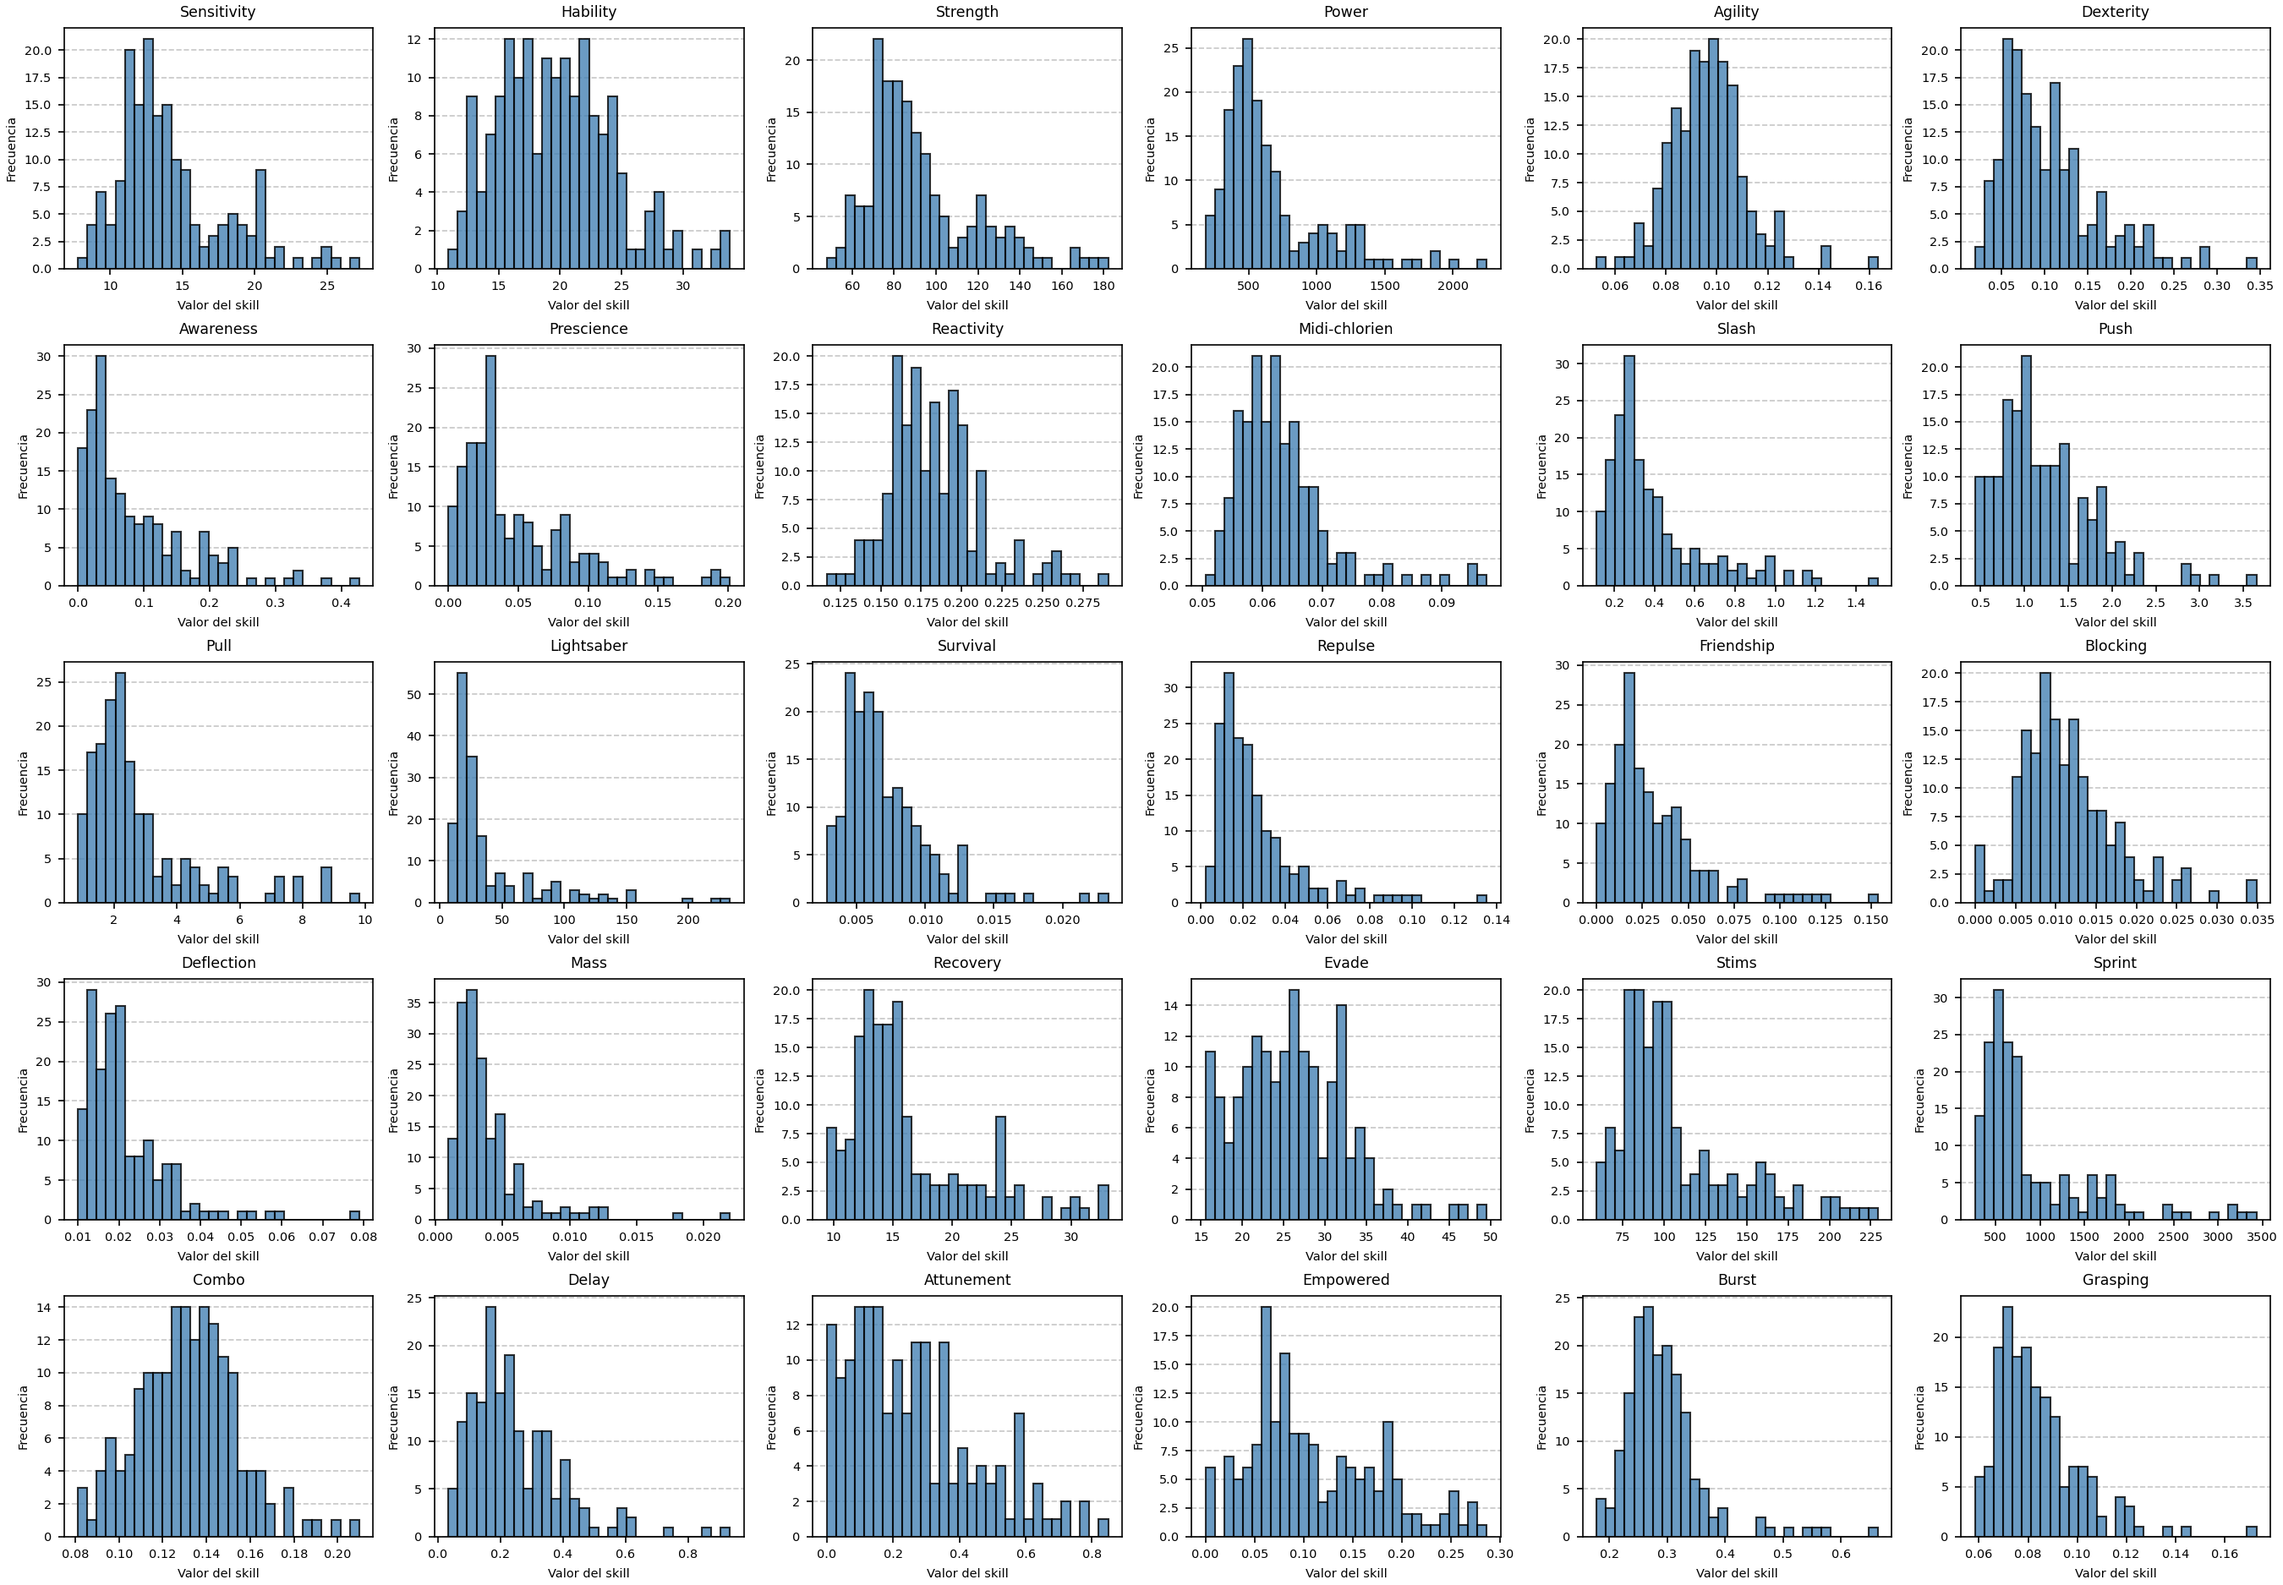
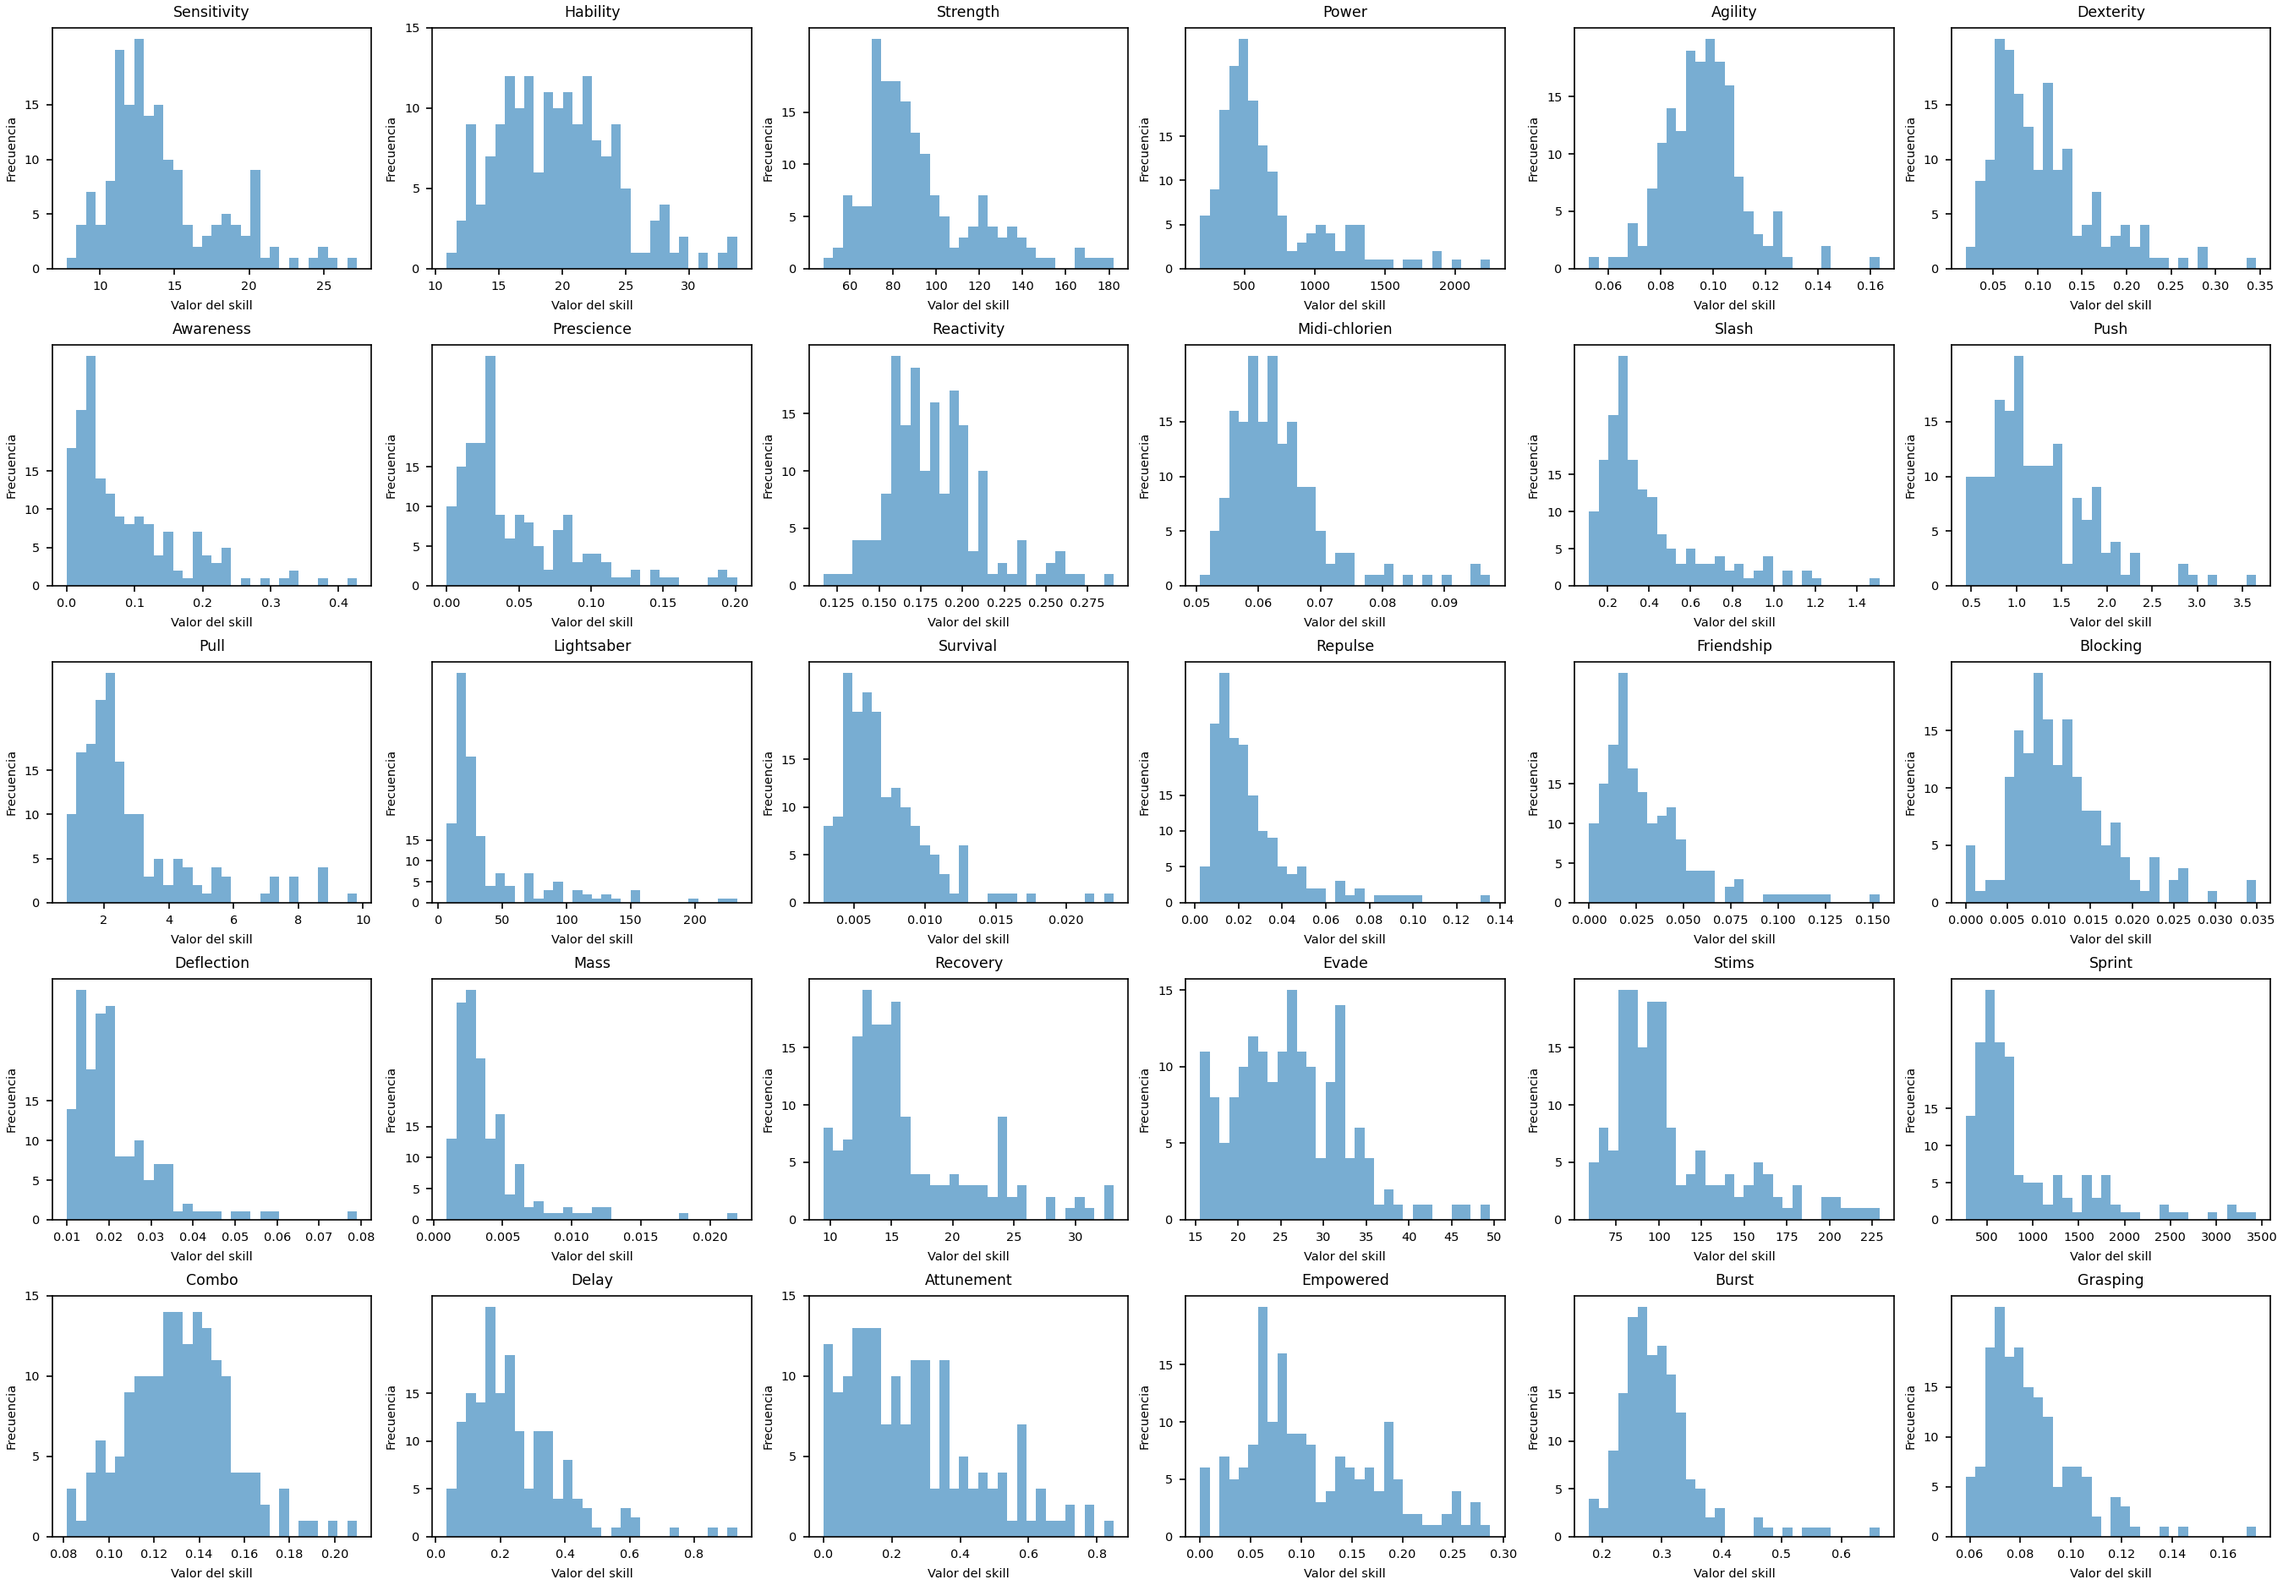
Dtascientist1ex00

diff --git a/Data_scientist_1/ex00/histogram.py b/Data_scientist_1/ex00/histogram.py
@@ -7,36 +7,49 @@ import sys
 import os
 
 # Ejercicio 00: Histogramas de skills
+def detect_delimiter(path):
+    """Detecta automáticamente ',' o ';' basándose en la primera línea útil."""
+    with open(path, 'r') as f:
+        for line in f:
+            if line.strip():
+                return ';' if line.count(';') > line.count(',') else ','
+    return ','
+
 FEATURES = [
-    "Sensitivity", "Hability", "Strength", "Power", "Agility", "Dexterity",
-    "Awareness", "Prescience", "Reactivity", "Midi-chlorien", "Slash", "Push",
-    "Pull", "Lightsaber", "Survival", "Repulse", "Friendship", "Blocking",
-    "Deflection", "Mass", "Recovery", "Evade", "Stims", "Sprint", "Combo",
-    "Delay", "Attunement", "Empowered", "Burst", "Grasping"
+    "Sensitivity","Hability","Strength","Power","Agility","Dexterity",
+    "Awareness","Prescience","Reactivity","Midi-chlorien","Slash","Push",
+    "Pull","Lightsaber","Survival","Repulse","Friendship","Blocking",
+    "Deflection","Mass","Recovery","Evade","Stims","Sprint","Combo",
+    "Delay","Attunement","Empowered","Burst","Grasping"
 ]
 
+OUTPUT_TEST = 'Test_histograms.png'
+OUTPUT_TRAIN = 'Train_histograms.png'
 
-def create_grid(plot_func, title, out_file, legend_needed=False):
-    """
-    Crea un grid de histogramas para cada feature usando plot_func(ax, feat).
-    """
+
+def plot_grid(df, plot_func, title, out_file, legend=False):
+    """Crea un grid de histogramas para cada feature usando plot_func(ax, df, feat)."""
     n = len(FEATURES)
     cols = 6
     rows = math.ceil(n / cols)
-    fig, axes = plt.subplots(rows, cols,
-                             figsize=(cols * 3, rows * 2.5),
-                             constrained_layout=True)
-    for ax, feat in zip(axes.flat, FEATURES):
-        plot_func(ax, feat)
+    fig, axes = plt.subplots(rows, cols, figsize=(cols*3, rows*2.5), constrained_layout=True)
+    axes = axes.flatten()
+
+    for ax, feat in zip(axes, FEATURES):
+        plot_func(ax, df, feat)
         ax.set_title(feat, fontsize='small')
         ax.set_xlabel('Valor del skill', fontsize='x-small')
         ax.set_ylabel('Frecuencia', fontsize='x-small')
         ax.set_yticks(range(0, 16, 5))
-        ax.tick_params(axis='both', which='major', labelsize='x-small')
-        if legend_needed:
-            ax.legend(fontsize='x-small')
-    for ax in axes.flat[n:]:
+        ax.tick_params(labelsize='x-small')
+        if legend:
+            handles, labels = ax.get_legend_handles_labels()
+            if handles:
+                ax.legend(fontsize='x-small')
+
+    for ax in axes[n:]:
         ax.set_visible(False)
+
     fig.suptitle(title, y=1.02)
     fig.savefig(out_file, dpi=150)
     plt.close(fig)
@@ -44,78 +57,69 @@ def create_grid(plot_func, title, out_file, legend_needed=False):
 
 
 def plot_test():
+    """Lee Test_knight.csv y genera Test_histograms.png con histogramas globales."""
     path = 'Test_knight.csv'
     if not os.path.isfile(path):
-        print(f"ERROR: no se encuentra {path}", file=sys.stderr)
-        sys.exit(1)
-    df = pd.read_csv(path)
+        sys.exit(f"ERROR: {path} no encontrado.")
 
-    missing = [f for f in FEATURES if f not in df.columns]
-    if missing:
-        print(f"ERROR: faltan columnas en Test_knight.csv: {missing}", file=sys.stderr)
-        sys.exit(1)
+    delim = detect_delimiter(path)
+    df = pd.read_csv(path, sep=delim, usecols=FEATURES)
+    df = df.apply(pd.to_numeric, errors='coerce')
 
-    def draw_global(ax, feat):
-        data = pd.to_numeric(df[feat], errors='coerce').dropna()
-        ax.hist(data, bins=30, alpha=0.6, label='Knight', edgecolor='black')
+    def draw_test(ax, df, feat):
+        data = df[feat].dropna()
+        if data.size:
+            ax.hist(data, bins=30, color='C0', alpha=0.6)
+        else:
+            ax.text(0.5,0.5,'No data',ha='center',va='center',transform=ax.transAxes,fontsize='small',color='gray')
 
-    create_grid(
-        plot_func=draw_global,
-        title='Distribución global de cada skill (Test_knight.csv)',
-        out_file='test_knight.png',
-        legend_needed=True
-    )
+    plot_grid(df, draw_test,
+              'Distribución global de cada skill (Test_knight.csv)',
+              OUTPUT_TEST)
 
 
 def plot_train():
+    """Lee Train_knight.csv y genera Train_histograms.png comparando clases."""
     path = 'Train_knight.csv'
     if not os.path.isfile(path):
-        print(f"ERROR: no se encuentra {path}", file=sys.stderr)
-        sys.exit(1)
-    df = pd.read_csv(path)
+        sys.exit(f"ERROR: {path} no encontrado.")
 
-    # Verificar presencia de knight
+    delim = detect_delimiter(path)
+    # Primero intentar con header real
+    df = pd.read_csv(path, sep=delim)
     if 'knight' not in df.columns:
-        print("WARNING: la columna 'knight' no se encontró en Train_knight.csv; se generará histograma global en su lugar.")
-        # Reusar plot_test pero con Train data
-        def draw_global_train(ax, feat):
-            if feat in df.columns:
-                data = pd.to_numeric(df[feat], errors='coerce').dropna()
-                ax.hist(data, bins=30, alpha=0.6, label='Knight', edgecolor='black')
-        create_grid(
-            plot_func=draw_global_train,
-            title='Distribución global de cada skill (Train_knight.csv)',
-            out_file='train_knight.png',
-            legend_needed=True
-        )
-        return
+        # Saltar fila corrupta y asignar nombres
+        df = pd.read_csv(path, sep=delim, header=None, skiprows=1,
+                         names=FEATURES + ['knight'])
 
-    missing = [f for f in FEATURES if f not in df.columns]
-    if missing:
-        print(f"WARNING: faltan columnas en Train_knight.csv: {missing}; se omitirán.")
+    # Convertir features a numérico
+    df[FEATURES] = df[FEATURES].apply(pd.to_numeric, errors='coerce')
+    # Asegurar que 'knight' sea string y sin espacios
+    df['knight'] = df['knight'].astype(str).str.strip()
 
-    def draw_by_class(ax, feat):
-        if feat in df.columns:
-            data_jedi = pd.to_numeric(df.loc[df['knight']=='Jedi', feat], errors='coerce').dropna()
-            data_sith = pd.to_numeric(df.loc[df['knight']=='Sith', feat], errors='coerce').dropna()
-        else:
-            data_jedi = []
-            data_sith = []
-        ax.hist(data_jedi, bins=30, color='pink', alpha=0.6,
-                label='Lado Claro / Jedi', edgecolor='black')
-        ax.hist(data_sith, bins=30, color='purple', alpha=0.6,
-                label='Lado Oscuro / Sith', edgecolor='black')
+    # Filtrar solo clases existentes en datos
+    df = df[df['knight'].isin(['Jedi','Sith'])]
 
-    create_grid(
-        plot_func=draw_by_class,
-        title='Distribución por clase de cada skill (Train_knight.csv)',
-        out_file='train_knight.png',
-        legend_needed=True
-    )
+    def draw_train(ax, df, feat):
+        d0 = df.loc[df['knight']=='Jedi', feat].dropna()
+        d1 = df.loc[df['knight']=='Sith', feat].dropna()
+        if d0.size:
+            ax.hist(d0, bins=30, color='pink', alpha=0.6)
+        if d1.size:
+            ax.hist(d1, bins=30, color='purple', alpha=0.6)
+        if not d0.size and not d1.size:
+            ax.text(0.5,0.5,'No data',ha='center',va='center',transform=ax.transAxes,fontsize='small',color='gray')
+        # Always add legend with fixed labels
+        ax.legend(['Lado Claro / Jedi','Lado Oscuro / Sith'], fontsize='x-small')
+
+    plot_grid(df, draw_train,
+              'Distribución por clase de cada skill (Train_knight.csv)',
+              OUTPUT_TRAIN,
+              legend=True)
+
 
 if __name__ == '__main__':
     print('Generando histogramas...')
     plot_test()
     plot_train()
-    print('Archivos en directorio:', os.listdir('.'))
-
+    print('Generación completa.')
